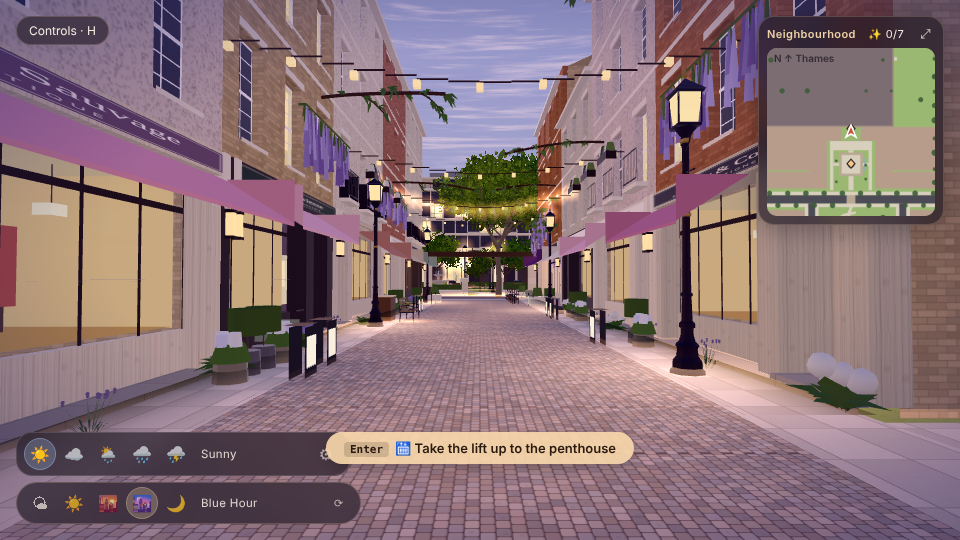
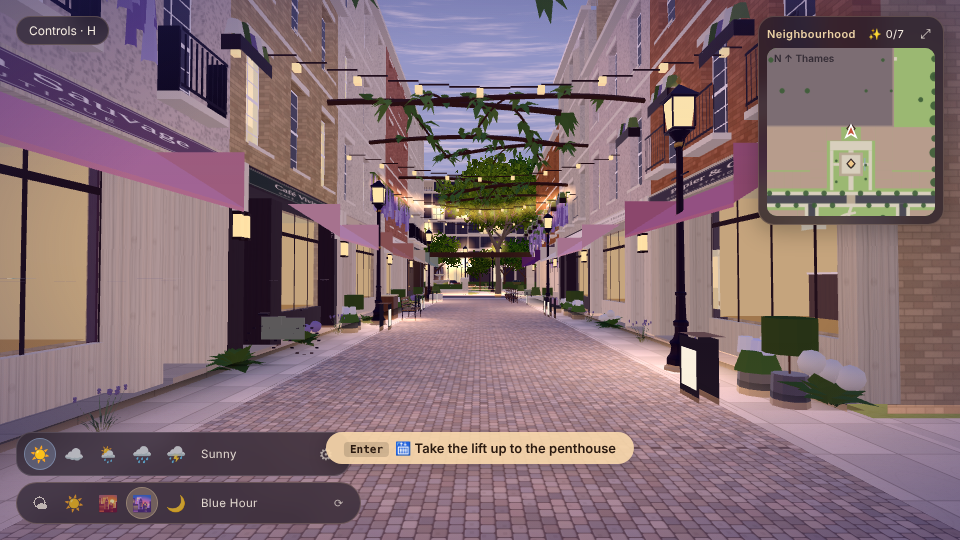
s12: dense overhead branch canopy evidence + status (partial vs p.52)
Claude-Session: https://claude.ai/code/session_017ZtboRbFUCo4FCo9fUW3pH

diff --git a/docs/bible/S12_STATUS.md b/docs/bible/S12_STATUS.md
@@ -11,3 +11,7 @@ UPDATE: shop interiors tint amber-gold at dusk (blue-green channels pulled down 
 UPDATE (2026-11-13): audit of the code shows the sett/slab/road/gravel materials already take the rain wet shader (darker, glossier, puddles; src/weather/wet.js via Street.jsx), so wet cobbles in s12 are covered when weather is raining. Shop interiors (incl. s13/s14) share the `shopin` material, whose tint follows the window-glow factor, so they do change with time of day (colour only; brightness is a single global factor, not per-shop). Still open: an overhead leaf canopy for the lane, and visual confirmation of wet cobbles at M2 quality (headless only so far). Not approved.
 
 UPDATE (2026-11-13, later): added overhead warm string-light catenaries across the lane every 7 m (evidence/s12_game_stringlights_night.png, headless night render, no page errors). This is a light-string overhead element, not a full leaf canopy; the leaf canopy remains open. Not approved; M2 performance unchecked.
+
+## Overhead foliage (Bible p.52) — 2026-11-13
+- Blender kit `assets/blender/make_branches.py` → `src/baked/branches.json` (3 sprays), placed every ~6 m on both lane facades (`plan.js`).
+- Evidence: `evidence/s12_game_branches_bluehour.png` (no page errors). PARTIAL: canopy now frames the lane top, but limbs read bare/stick-like versus the dense leaf mass in the target; leaf density and limb thickness still to tune. Not approved; M2 performance not measured.
